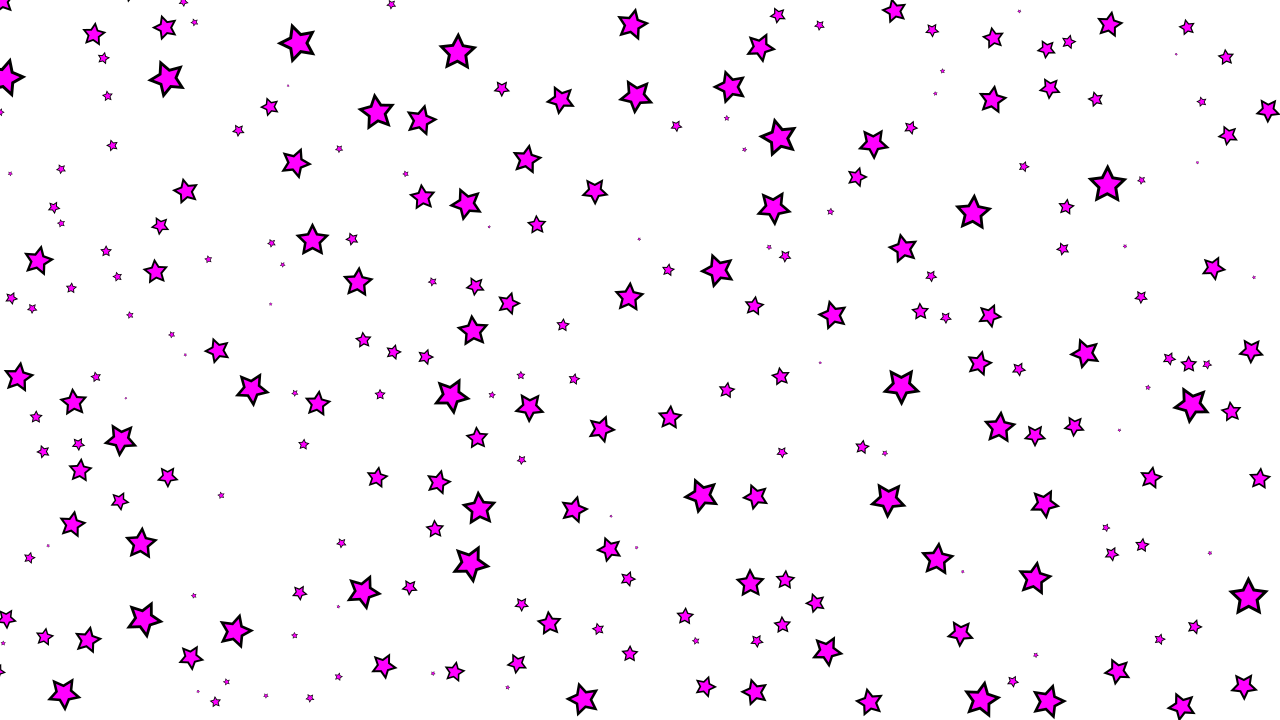
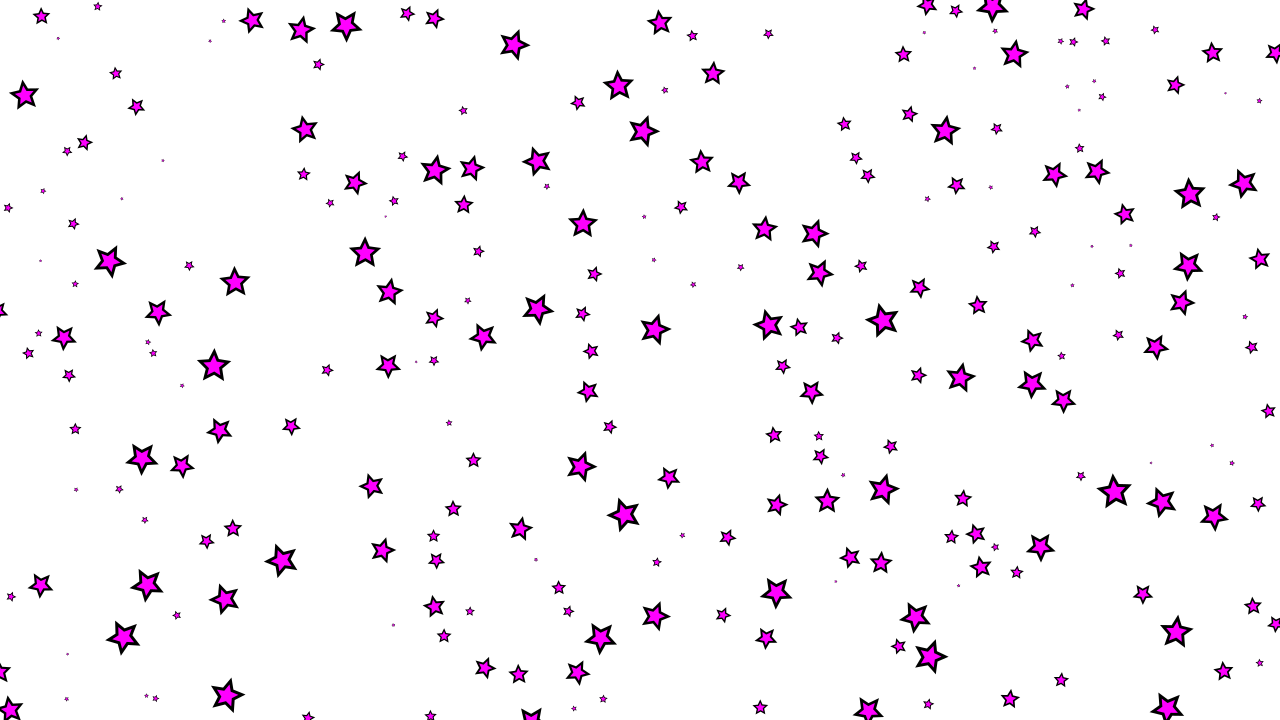
Add files via upload

diff --git a/noise_tiling.py b/noise_tiling.py
@@ -4,12 +4,13 @@ import random
 import math
 from inkex import Transform
 
+# ============ Lightweight Simplex Noise (2D) ============
 class SimplexNoise:
-    def __init__(self, seed=42):
+    def __init__(self, seed=0):
         rng = random.Random(seed)
-        self.p = list(range(256))
-        rng.shuffle(self.p)
-        self.perm = self.p * 2
+        self.perm = list(range(256))
+        rng.shuffle(self.perm)
+        self.perm = self.perm * 2
         self.grad3 = [
             (1,1), (-1,1), (1,-1), (-1,-1),
             (1,0), (-1,0), (0,1), (0,-1)
@@ -20,15 +21,13 @@ class SimplexNoise:
     def _dot(self, g, x, y):
         return g[0]*x + g[1]*y
 
-    def noise2d(self, xin, yin):
+    def noise(self, xin, yin):
         s = (xin + yin) * self.F2
         i = math.floor(xin + s)
         j = math.floor(yin + s)
         t = (i + j) * self.G2
-        X0 = i - t
-        Y0 = j - t
-        x0 = xin - X0
-        y0 = yin - Y0
+        x0 = xin - (i - t)
+        y0 = yin - (j - t)
 
         if x0 > y0:
             i1, j1 = 1, 0
@@ -42,6 +41,7 @@ class SimplexNoise:
 
         ii = int(i) & 255
         jj = int(j) & 255
+
         gi0 = self.perm[ii + self.perm[jj]] % 8
         gi1 = self.perm[ii + i1 + self.perm[jj + j1]] % 8
         gi2 = self.perm[ii + 1 + self.perm[jj + 1]] % 8
@@ -51,16 +51,42 @@ class SimplexNoise:
         if t0 > 0:
             t0 *= t0
             n0 = t0 * t0 * self._dot(self.grad3[gi0], x0, y0)
+
         t1 = 0.5 - x1*x1 - y1*y1
         if t1 > 0:
             t1 *= t1
             n1 = t1 * t1 * self._dot(self.grad3[gi1], x1, y1)
+
         t2 = 0.5 - x2*x2 - y2*y2
         if t2 > 0:
             t2 *= t2
             n2 = t2 * t2 * self._dot(self.grad3[gi2], x2, y2)
 
         return 70.0 * (n0 + n1 + n2)
+
+    def fbm(self, x, y, octaves=4, lacunarity=2.0, gain=0.5):
+        total = 0.0
+        amplitude = 1.0
+        frequency = 1.0
+        max_amp = 0.0
+        for _ in range(max(1, int(octaves))):
+            total += amplitude * self.noise(x * frequency, y * frequency)
+            max_amp += amplitude
+            amplitude *= gain
+            frequency *= lacunarity
+        return total / max_amp if max_amp > 0 else 0.0
+
+    def turbulence(self, x, y, octaves=4, lacunarity=2.0, gain=0.5):
+        total = 0.0
+        amplitude = 1.0
+        frequency = 1.0
+        max_amp = 0.0
+        for _ in range(max(1, int(octaves))):
+            total += amplitude * abs(self.noise(x * frequency, y * frequency))
+            max_amp += amplitude
+            amplitude *= gain
+            frequency *= lacunarity
+        return (2.0 * total / max_amp - 1.0) if max_amp > 0 else 0.0
 
 
 class NoiseTiling(inkex.EffectExtension):
@@ -70,12 +96,40 @@ class NoiseTiling(inkex.EffectExtension):
         pars.add_argument("--scale_noise", type=float, default=0.02)
         pars.add_argument("--threshold", type=float, default=0.3)
         pars.add_argument("--seed", type=int, default=0)
+        pars.add_argument(
+            "--noise_type",
+            type=str,
+            default="simplex",
+            choices=["simplex", "fbm", "turbulence"],
+            dest="noise_type",
+        )
+        pars.add_argument("--octaves", type=int, default=4)
+        pars.add_argument("--lacunarity", type=float, default=2.0)
+        pars.add_argument("--gain", type=float, default=0.5)
         pars.add_argument("--attempts", type=int, default=500)
         pars.add_argument("--min_scale", type=float, default=0.6)
         pars.add_argument("--max_scale", type=float, default=1.4)
         pars.add_argument("--min_rotate", type=float, default=0.0)
         pars.add_argument("--max_rotate", type=float, default=360.0)
         pars.add_argument("--padding", type=float, default=2)
+
+    def _sample_noise(self, noise, nx, ny):
+        kind = self.options.noise_type
+        if kind == "fbm":
+            return noise.fbm(
+                nx, ny,
+                octaves=self.options.octaves,
+                lacunarity=self.options.lacunarity,
+                gain=self.options.gain,
+            )
+        if kind == "turbulence":
+            return noise.turbulence(
+                nx, ny,
+                octaves=self.options.octaves,
+                lacunarity=self.options.lacunarity,
+                gain=self.options.gain,
+            )
+        return noise.noise(nx, ny)
 
     def effect(self):
         if not self.svg.selected:
@@ -114,8 +168,7 @@ class NoiseTiling(inkex.EffectExtension):
             cand_x = area_x + random.random() * area_w
             cand_y = area_y + random.random() * area_h
 
-            n_val = noise_gen.noise2d(cand_x * self.options.scale_noise,
-                                      cand_y * self.options.scale_noise)
+            n_val = self._sample_noise(noise_gen, cand_x * self.options.scale_noise, cand_y * self.options.scale_noise)
             probability = (n_val + 1.0) / 2.0
 
             if probability < self.options.threshold:

diff --git a/README.md b/README.md
@@ -1,16 +1,17 @@
 # Inkscape Noise Tiling
 
-Scatter randomized copies of selected objects over a region, with placement probability driven by 2D Simplex noise. Higher noise values → higher spawn chance. Overlaps are avoided via AABB collision detection; each copy gets random rotation and scale.
+Scatter randomized copies of selected objects over a region, with placement probability driven by configurable 2D noise (Simplex, fBm, or Turbulence). Higher noise values → higher spawn chance. Overlaps are avoided via AABB collision detection; each copy gets random rotation and scale.
 
 ![Example output](example.png)
 
 ## Features
 
-- Simplex-noise–driven spawn probability
+- Configurable noise type: **Simplex**, **fBm** (fractal Brownian motion), or **Turbulence**
+- Adjustable fractal parameters (octaves, lacunarity, gain) for fBm and Turbulence
 - No-overlap placement (AABB + padding)
 - Random rotation & scale (configurable ranges)
 - Tiling area anchored to the selected object's top-left corner
-- Output objects have no `transform` (path `d` is rewritten directly)
+- Reproducible layouts via a fixed noise seed
 
 ## Install
 
@@ -27,7 +28,7 @@ Requires Inkscape 1.x (Python 3 + `inkex`).
 ## Usage
 
 1. Select one or more objects to use as templates.
-2. Go to **Extensions → Generate from Path → Noise Tiling**.
+2. Go to **Extensions → Generate from Path → Simplex Noise Tiling**.
 3. Adjust parameters and click **Apply**.
 
 ## Parameters
@@ -36,13 +37,23 @@ Requires Inkscape 1.x (Python 3 + `inkex`).
 |---|---|
 | Tile Area Width/Height | Size of the tiling region (starts at template's top-left corner) |
 | Noise Scale | Smaller = smoother/larger clusters |
+| Noise Type | Noise algorithm: `simplex` (single-octave), `fbm` (fractal sum), or `turbulence` (absolute-value fractal sum) |
+| Octaves | Number of noise layers summed (fBm / Turbulence only) |
+| Lacunarity | Frequency multiplier between octaves (fBm / Turbulence only) |
+| Gain | Amplitude multiplier between octaves (fBm / Turbulence only) |
 | Probability Threshold | Filter out low-noise positions (0–1) |
-| Noise Seed | `0` = random each run; any other value reproduces the same layout |
+| Noise Seed | `0` = random each run; any positive value reproduces the same layout |
 | Max Placement Attempts | Upper bound on placement tries |
 | Min/Max Random Scale | Scale range for each copy |
 | Min/Max Random Rotation (deg) | Rotation range for each copy |
 | Padding | Extra gap enforced between objects |
 
+### Noise types
+
+- **Simplex** — plain single-octave 2D simplex noise. Smooth, large-scale gradients.
+- **fBm** — sums multiple octaves of simplex noise with decreasing amplitude (`gain`) and increasing frequency (`lacunarity`). Produces natural, cloud-like variation.
+- **Turbulence** — like fBm but uses the absolute value of each octave, creating sharper, more "veiny" or fiery patterns.
+
 ## License
 
-#MIT
+MIT
